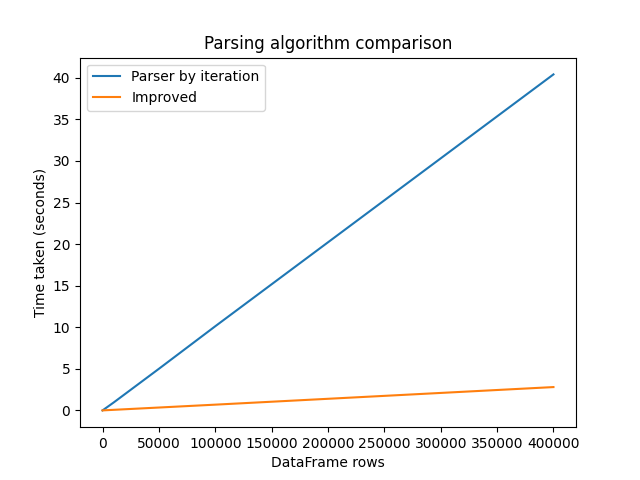
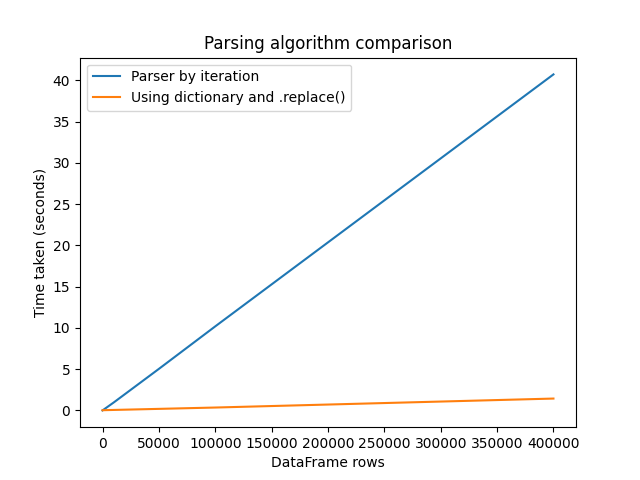
Improve OptionEnum provide mappings for speed

diff --git a/code/dataset.py b/code/dataset.py
@@ -1,5 +1,6 @@
 # TODO: Add DataSet class that others can implement
 
+import enum
 from enum import Enum
 
 # class to represent column
@@ -15,15 +16,42 @@ class Column:
         self.type = type
 
 class OptionEnum(Enum):
-    """Represents possible values allowed in a particular column
+    """Abstraction to represent different possible values and their encodings
+
+    == Implementing ==
+    To use, extend and create options as `class member = (key, desc)`
+    This will then provide class members that can be used like enums.
+
+    == Iteration ==
+    You can iterate over the class members using normal iteration
+    syntax: [x for x in SubClass]. These give you the class members
+    which you can then call
+
+    == Mappings ==
+    If you have a key and want to map to the enum, you can use parse()
+    You can then do .key() or .desc() to obtain its key and description
+
+    For when more performant code is required, a `mapping` dictionary is created
+    on this class. The mapping dictionary maps directly from key to description.
+    You can use this directly, such as with pandas dataframes .replace to
+    achieve much higher performance when needed.
     """
+
+    # https://stackoverflow.com/questions/56735081/add-and-initilalize-an-enum-class-variable-in-python
+    def __init__(self, k, v):
+        # Intiialise a class member variable mapping with all enums in
+        super().__init__()
+        if self.__class__.__dict__.get('mappings', None) is None:
+            self.__class__.mappings = {}
+        self.__class__.mappings[k] = v
+
     @classmethod
     def parse(cls, encoded):
         """Parses the encoded key into a enum variant"""
-        for m in cls:
-            if encoded == m.key():
-                return m
-        raise KeyError(str(encoded) + " is not a valid key for " + str(cls))
+        for member in cls:
+            if member.key() == encoded:
+                return member
+        raise KeyError("No member with key: " + encoded)
 
     @classmethod
     def keys(cls):
@@ -31,9 +59,11 @@ class OptionEnum(Enum):
         return [m.key() for m in cls]
 
     def key(self):
+        """Gets the key, i.e. the encoded value for this option"""
         return self.value[0]
 
     def desc(self):
+        """Gets the human readable description of what this option means"""
         return self.value[1]
 
     def __str__(self):

diff --git a/code/performance.py b/code/performance.py
@@ -35,8 +35,7 @@ def df_parse_dict(df):
         if col.options is None:
             continue
         opts = {x.key(): x.desc() for x in col.options}
-        #print("Opts: ", opts)
-        df[column].apply(lambda x: opts[x])
+        df[column].replace(opts)
 
 
 # https://stackoverflow.com/questions/5086430/how-to-pass-parameters-of-a-function-when-using-timeit-timer
@@ -90,8 +89,8 @@ if __name__ == "__main__":
     profileSize(df, 400000, cur)
     for k,v in cur.items():
         print(k, "->", v)
-    validate = {"Simple iteration": cur["iterate_df_in_values"], "Improved": cur["current_impl"]}
-    parse = {"Parser by iteration": cur["parse_by_iter"], "Improved": cur["parse_dict"]}
+    validate = {"Simple iteration": cur["iterate_df_in_values"], "Using panda's isin()": cur["current_impl"]}
+    parse = {"Parser by iteration": cur["parse_by_iter"], "Using dictionary and .replace()": cur["parse_dict"]}
     plot_comparison(validate, "Validation algorithm comparison", "validation_performance.png")
     plot_comparison(parse, "Parsing algorithm comparison", "parse_performance.png")
 
